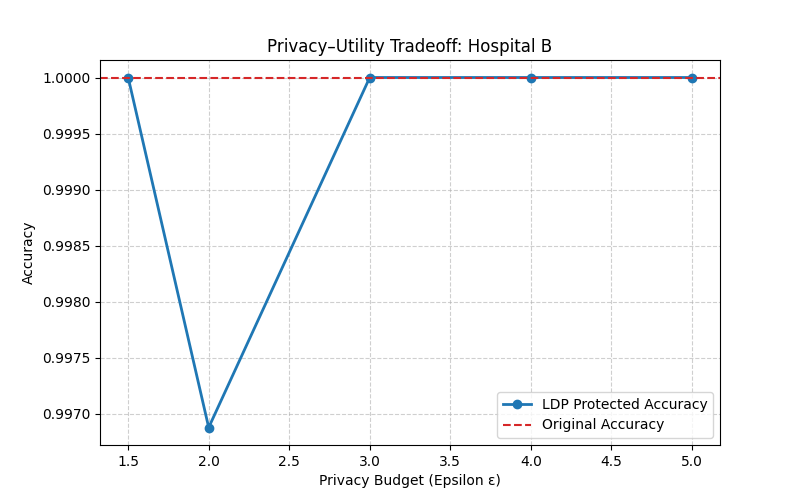
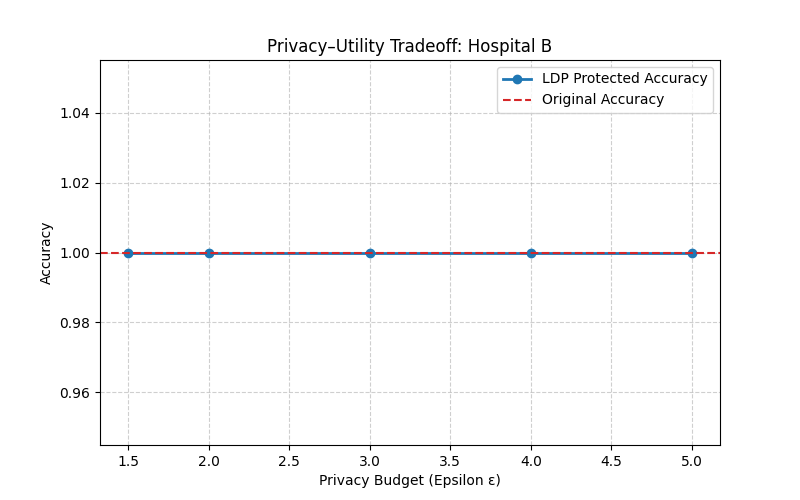
dashboard changes for admin side

diff --git a/dashboard/dashboard_admin.py b/dashboard/dashboard_admin.py
@@ -119,8 +119,8 @@ def admin_dashboard():
                 st.markdown(f'<div class="stats-card card-red"><div class="stats-label">Total Records</div><div class="stats-value">{db_user_count}</div></div>', unsafe_allow_html=True)
                 st.markdown(f'<div class="stats-card card-teal"><div class="stats-label">Next Update</div><div class="stats-value" style="font-size: 28px;">{next_update.strftime('%b %d, %Y')  }</div></div>', unsafe_allow_html=True)
             with m_col2:
-                st.markdown('<div class="stats-card card-green"><div class="stats-label">Model Version</div><div class="stats-value">v4.2.1</div></div>', unsafe_allow_html=True)
-                st.markdown('<div class="stats-card card-blue"><div class="stats-label">Active Nodes</div><div class="stats-value">12</div></div>', unsafe_allow_html=True)
+                st.markdown('<div class="stats-card card-green"><div class="stats-label">Federated Round</div><div class="stats-value">v4.2.1</div></div>', unsafe_allow_html=True)
+                st.markdown('<div class="stats-card card-blue"><div class="stats-label">Participating Hospitals</div><div class="stats-value">12</div></div>', unsafe_allow_html=True)
 
     elif choice == "Local Model Update":
         show_local_model_update()
